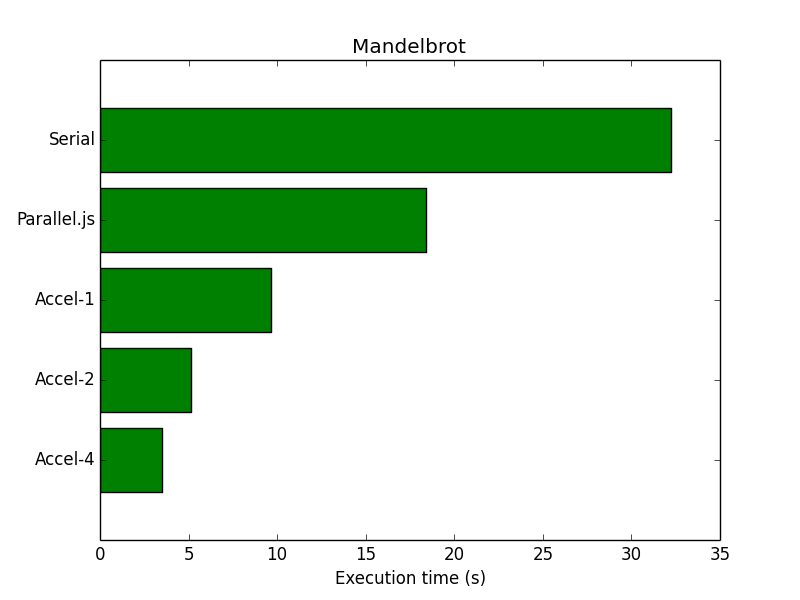
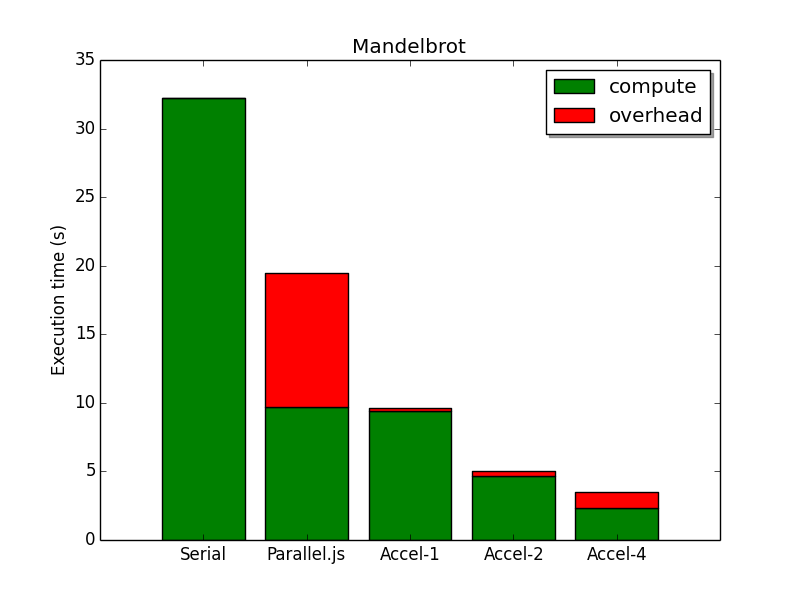
new result

diff --git a/benchmarks/mandelbrot/plot.py b/benchmarks/mandelbrot/plot.py
@@ -1,20 +1,18 @@
 import matplotlib.pyplot as plt
-plt.rcdefaults()
 import numpy as np
-import matplotlib.pyplot as plt
 
-
-plt.rcdefaults()
 fig, ax = plt.subplots()
 people = ('Serial', 'Parallel.js', 'Accel-1', 'Accel-2', 'Accel-4')
 y_pos = np.arange(len(people))
-performance = [32.2568,18.3980,9.67925,5.1116,3.5146]
-ax.barh(y_pos, performance, align='center',
-        color='green', ecolor='black')
-ax.set_yticks(y_pos)
-ax.set_yticklabels(people)
-ax.invert_yaxis()  # labels read top-to-bottom
-ax.set_xlabel('Execution time (s)')
+overhead = [32.2568, 19.449, 9.644 ,5.057 ,3.5146]
+compute = [32.2568, 9.721, 9.37325, 4.67075, 2.3064]
+for i in range(len(overhead)):
+    overhead[i] -= compute[i]
+ax.bar(y_pos, compute, align='center', color='green', ecolor='black', label='compute')
+ax.bar(y_pos, overhead, align='center', color='red', ecolor='black', bottom=compute, label='overhead')
+ax.set_xticks(y_pos)
+ax.set_xticklabels(people)
+ax.set_ylabel('Execution time (s)')
 ax.set_title('Mandelbrot')
-
+legend = ax.legend(loc='upper right', shadow=True)
 plt.savefig('mandelbrot.png')
